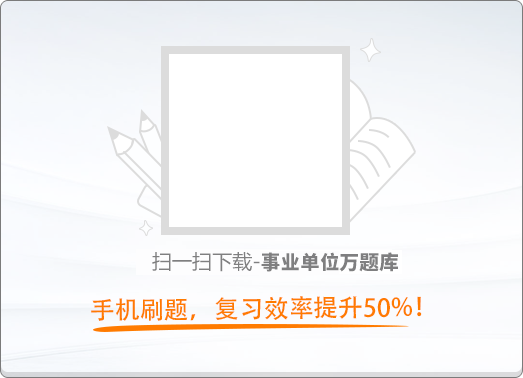
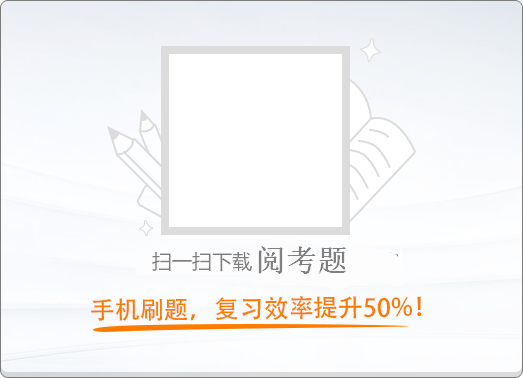
Site updated: 2018-09-23 16:05:53

Changed region(s): [[0.4589, 0.6402, 0.7648, 0.7275]]

diff --git a/index.html b/index.html
@@ -2,7 +2,7 @@
 <html>
 <head>
     <meta charset="utf-8"/>
-    <title>万题库</title>
+    <title>阅考题</title>
     <meta name="description" content="事业单位题库,拥有名师视频解析的智能题库！考证通关大杀器,科学通关,懒人必备！"/>
     <meta name="keywords" content="事业单位考试,事业单位招聘考试,公务员,公务员考试,公务员题库,国家公务员,事业单位考试题库,国考,申论,行测,事业单位公共基础,编制,公务员万题库,万题库"/>
     <style>
@@ -354,7 +354,7 @@
             float: left;
             height: 310px;
             width: 260px;
-            margin-right: 53px;
+            margin-right: 25px;
             margin-bottom: 30px;
             transition: .2s;
         }
@@ -453,7 +453,7 @@
             overflow: hidden;
             float: left;
             display: block;
-            top: 0;
+            top:0;
             position: absolute;
             z-index: 103;
             left: 0 !important;
@@ -646,13 +646,12 @@
 <div class="server">
     <a id="btn-xn-chat" class="s-app" href="#">
         <span class="s-app_pic"></span>
-        APP
     </a>
     <a class="s-wx" href="javascript:;">
         <span class="s-wx_pic"></span>
         <div class="scan-wx">
             <span class="ewm_jt"></span>
-            <img src="scan_wx.gif" height="100" width="100">
+            <img src="wx_gz.jpg" height="100" width="100">
             <div class="ewm_text">微信扫一扫<br>关注公众号</div>
         </div>
     </a>
@@ -683,12 +682,12 @@
     <div class="con">
         <div class="fl">
             <div class="yuekaoti">
-                <a href=""><img height="45" width="120" alt="" src="logo.png"></a>
+                <a href="#"><img height="45" width="120" alt="" src="logo.png"></a>
             </div>
         </div>
         <div class="header-right">
             <a target="_black" href="index.html" style="margin-right: 30px;pointer-events:none;color:#55bbdd;">首页</a>
-            <a target="_black" href="#tz-title" title="" style="margin-right: 40px;">APP下载</a>
+            <a target="_black" href="#tz-title" title="" style="margin-right: 40px;">特种作业</a>
         </div>
     </div>
     <div class="clear"></div>
@@ -698,7 +697,7 @@
         <div class="banner-left">
             <div class="left_l">
                 <div class="ewm">
-                    <img src="scan_img.png" width="100"
+                    <img src="app_down.png" width="100"
                          height="100">
                     <div class="sys">扫一扫下载 APP</div>
                 </div>
@@ -706,8 +705,8 @@
                 </div>
             </div>
             <div class="btn">
-                <a class="btn-ios" target="_blank" href="#"></a>
-                <a class="btn-android" href="#"></a>
+                <a  target="_blank" href="#" style="height: 36px"></a>
+                <a class="btn-android" href="http://122.114.180.45/apk/yuekaoti.apk"></a>
             </div>
             <div class="clear"></div>
         </div>
@@ -777,15 +776,15 @@
     </div>
 </div>
 <div class="con">
-    <div class="list_title" id="tz-title">事业单位题库</div>
+    <div class="list_title" id="tz-title">特种作业人员</div>
     <div class="tikuNav">
         <div class="t-item">
             <div class="item-top">
-                <img src="716.png" width="260" height="180"/>
+                <img src="dg1.png" width="260" height="180"/>
             </div>
             <div class="item-bottom">
                 <div class="item-title">总题数
-                    <div class="title-count">132654</div>
+                    <div class="title-count">1235</div>
                 </div>
                 <div class="t-count">已有<span>132654</span>人做题</div>
                 <div class="t-down">
@@ -795,25 +794,121 @@
         </div>
         <div class="t-item">
             <div class="item-top">
-                <img src="717.png" width="260" height="180"/>
+                <img src="dg2.png" width="260" height="180"/>
             </div>
             <div class="item-bottom">
                 <div class="item-title">总题数
                     <div class="title-count">1376</div>
                 </div>
-                <div class="t-count">已有<span>1376</span>人做题</div>
+                <div class="t-count">已有<span>12376</span>人做题</div>
                 <div class="t-down"><a class="item-down" onclick="ShowDivTiku(1);" href="javascript:void(0)">马上练习</a>
                 </div>
             </div>
         </div>
         <div class="t-item">
             <div class="item-top">
-                <img src="718.png" width="260" height="180"/></div>
+                <img src="dg3.png" width="260" height="180"/></div>
+            <div class="item-bottom">
+                <div class="item-title">总题数
+                    <div class="title-count">968</div>
+                </div>
+                <div class="t-count">已有<span>200304</span>人做题</div>
+                <div class="t-down"><a class="item-down" onclick="ShowDivTiku(1);" href="javascript:void(0)">马上练习</a>
+                </div>
+            </div>
+        </div>
+        <div class="t-item">
+            <div class="item-top">
+                <img src="hj1.png" width="260" height="180"/></div>
+            <div class="item-bottom">
+                <div class="item-title">总题数
+                    <div class="title-count">1678</div>
+                </div>
+                <div class="t-count">已有<span>231454</span>人做题</div>
+                <div class="t-down"><a class="item-down" onclick="ShowDivTiku(1);" href="javascript:void(0)">马上练习</a>
+                </div>
+            </div>
+        </div>
+        <div class="t-item">
+            <div class="item-top">
+                <img src="hj2.png" width="260" height="180"/></div>
+            <div class="item-bottom">
+                <div class="item-title">总题数
+                    <div class="title-count">1487</div>
+                </div>
+                <div class="t-count">已有<span>253504</span>人做题</div>
+                <div class="t-down"><a class="item-down" onclick="ShowDivTiku(1);" href="javascript:void(0)">马上练习</a>
+                </div>
+            </div>
+        </div>
+        <div class="t-item">
+            <div class="item-top">
+                <img src="hj3.png" width="260" height="180"/></div>
+            <div class="item-bottom">
+                <div class="item-title">总题数
+                    <div class="title-count">1547</div>
+                </div>
+                <div class="t-count">已有<span>228304</span>人做题</div>
+                <div class="t-down"><a class="item-down" onclick="ShowDivTiku(1);" href="javascript:void(0)">马上练习</a>
+                </div>
+            </div>
+        </div>
+        <div class="t-item">
+            <div class="item-top">
+                <img src="gc1.png" width="260" height="180"/></div>
+            <div class="item-bottom">
+                <div class="item-title">总题数
+                    <div class="title-count">1344</div>
+                </div>
+                <div class="t-count">已有<span>128304</span>人做题</div>
+                <div class="t-down"><a class="item-down" onclick="ShowDivTiku(1);" href="javascript:void(0)">马上练习</a>
+                </div>
+            </div>
+        </div>
+        <div class="t-item">
+            <div class="item-top">
+                <img src="gc2.png" width="260" height="180"/></div>
+            <div class="item-bottom">
+                <div class="item-title">总题数
+                    <div class="title-count">1445</div>
+                </div>
+                <div class="t-count">已有<span>245004</span>人做题</div>
+                <div class="t-down"><a class="item-down" onclick="ShowDivTiku(1);" href="javascript:void(0)">马上练习</a>
+                </div>
+            </div>
+        </div>
+        <div class="t-item">
+            <div class="item-top">
+                <img src="zl1.png" width="260" height="180"/></div>
+            <div class="item-bottom">
+                <div class="item-title">总题数
+                    <div class="title-count">1125</div>
+                </div>
+                <div class="t-count">已有<span>35304</span>人做题</div>
+                <div class="t-down"><a class="item-down" onclick="ShowDivTiku(1);" href="javascript:void(0)">马上练习</a>
+                </div>
+            </div>
+        </div>
+        <div class="t-item">
+            <div class="item-top">
+                <img src="zl2.png" width="260" height="180"/></div>
+            <div class="item-bottom">
+                <div class="item-title">总题数
+                    <div class="title-count">1255</div>
+                </div>
+                <div class="t-count">已有<span>86304</span>人做题</div>
+                <div class="t-down"><a class="item-down" onclick="ShowDivTiku(1);" href="javascript:void(0)">马上练习</a>
+                </div>
+            </div>
+        </div>
+        <div class="t-item">
+            <div class="item-top">
+                <img src="more1.png" width="260" height="180"/></div>
             <div class="item-bottom">
                 <div class="item-title">总题数
                     <div class="title-count">238304</div>
                 </div>
-                <div class="t-count">已有<span>238304</span>人做题</div>
+                <div class="t-count">已有<span>356889</span>人做题</div>
                 <div class="t-down"><a class="item-down" onclick="ShowDivTiku(1);" href="javascript:void(0)">马上练习</a>
                 </div>
             </div>
@@ -845,7 +940,7 @@
         </a>
         <img src="tc2.png" width="523" height="378">
         <div class="saoma">
-            <img src="scan_img.png" width="153" height="153">
+            <img src="app_down.png" width="153" height="153">
         </div>
     </div>
 </div>
@@ -871,6 +966,7 @@
         $(".all_box_z1").css({height: winHeight});
         $(".all_box_z").css({height: winHeight})
     })
+
     function closeDiglog() {
         $(".all_box_z1").hide();
         $(".all_box_z").show();
@@ -879,6 +975,7 @@
             $("#kc" + i).hide();
         }
     }
+
     function ShowDivTiku(id) {
         $(".all_box_z1").show();
         $(".all_box_z").show();
